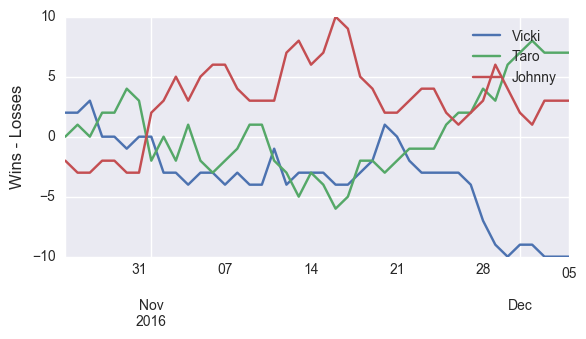
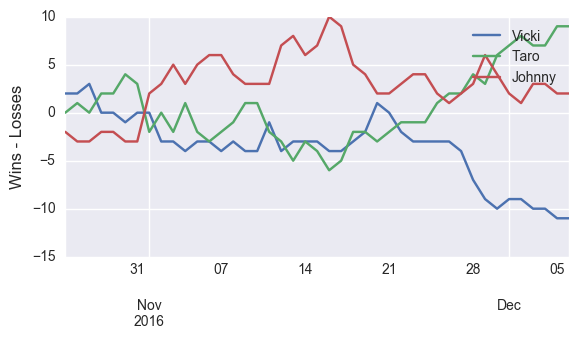
update 12/6

diff --git a/index.html b/index.html
@@ -35,32 +35,32 @@
 <a id="the-bet-is-on" class="anchor" href="#the-bet-is-on" aria-hidden="true"><span aria-hidden="true" class="octicon octicon-link"></span></a>The bet is on.</h1>
 
 <h1>
-<a id="current-winner-of-2016-17-season" class="anchor" href="#current-winner-of-2016-17-season" aria-hidden="true"><span aria-hidden="true" class="octicon octicon-link"></span></a>Current winner of 2016-17 Season (as of 12/5/2016):</h1>
+<a id="current-winner-of-2016-17-season" class="anchor" href="#current-winner-of-2016-17-season" aria-hidden="true"><span aria-hidden="true" class="octicon octicon-link"></span></a>Current winner of 2016-17 Season (as of 12/6/2016):</h1>
 
 <h2>
-<a id="none" class="anchor" href="#none" aria-hidden="true"><span aria-hidden="true" class="octicon octicon-link"></span></a><strong>Johnny</strong>
+<a id="none" class="anchor" href="#none" aria-hidden="true"><span aria-hidden="true" class="octicon octicon-link"></span></a><strong>Taro</strong>
 </h2>
 
 <h2>
 <a id="johnny" class="anchor" href="#johnny" aria-hidden="true"><span aria-hidden="true" class="octicon octicon-link"></span></a>Johnny</h2>
 
-<p>Wins: 104<br>
-Losses: 101<br>
-Remaining wins available: 526</p>
+<p>Wins: 107<br>
+Losses: 105<br>
+Remaining wins available: 520</p>
 
 <h2>
 <a id="taro" class="anchor" href="#taro" aria-hidden="true"><span aria-hidden="true" class="octicon octicon-link"></span></a>Taro</h2>
 
-<p>Wins: 103<br>
-Losses: 96<br>
-Remaining wins available: 529</p>
+<p>Wins: 108<br>
+Losses: 99<br>
+Remaining wins available: 522</p>
 
 <h2>
 <a id="vicki" class="anchor" href="#vicki" aria-hidden="true"><span aria-hidden="true" class="octicon octicon-link"></span></a>Vicki</h2>
 
-<p>Wins: 95<br>
-Losses: 105<br>
-Remaining wins available: 533</p>
+<p>Wins: 98<br>
+Losses: 109<br>
+Remaining wins available: 527</p>
 
 <img src='pythoncode/win_percent.png' alt='Winning Percentage Over Time'>
 <h1>
